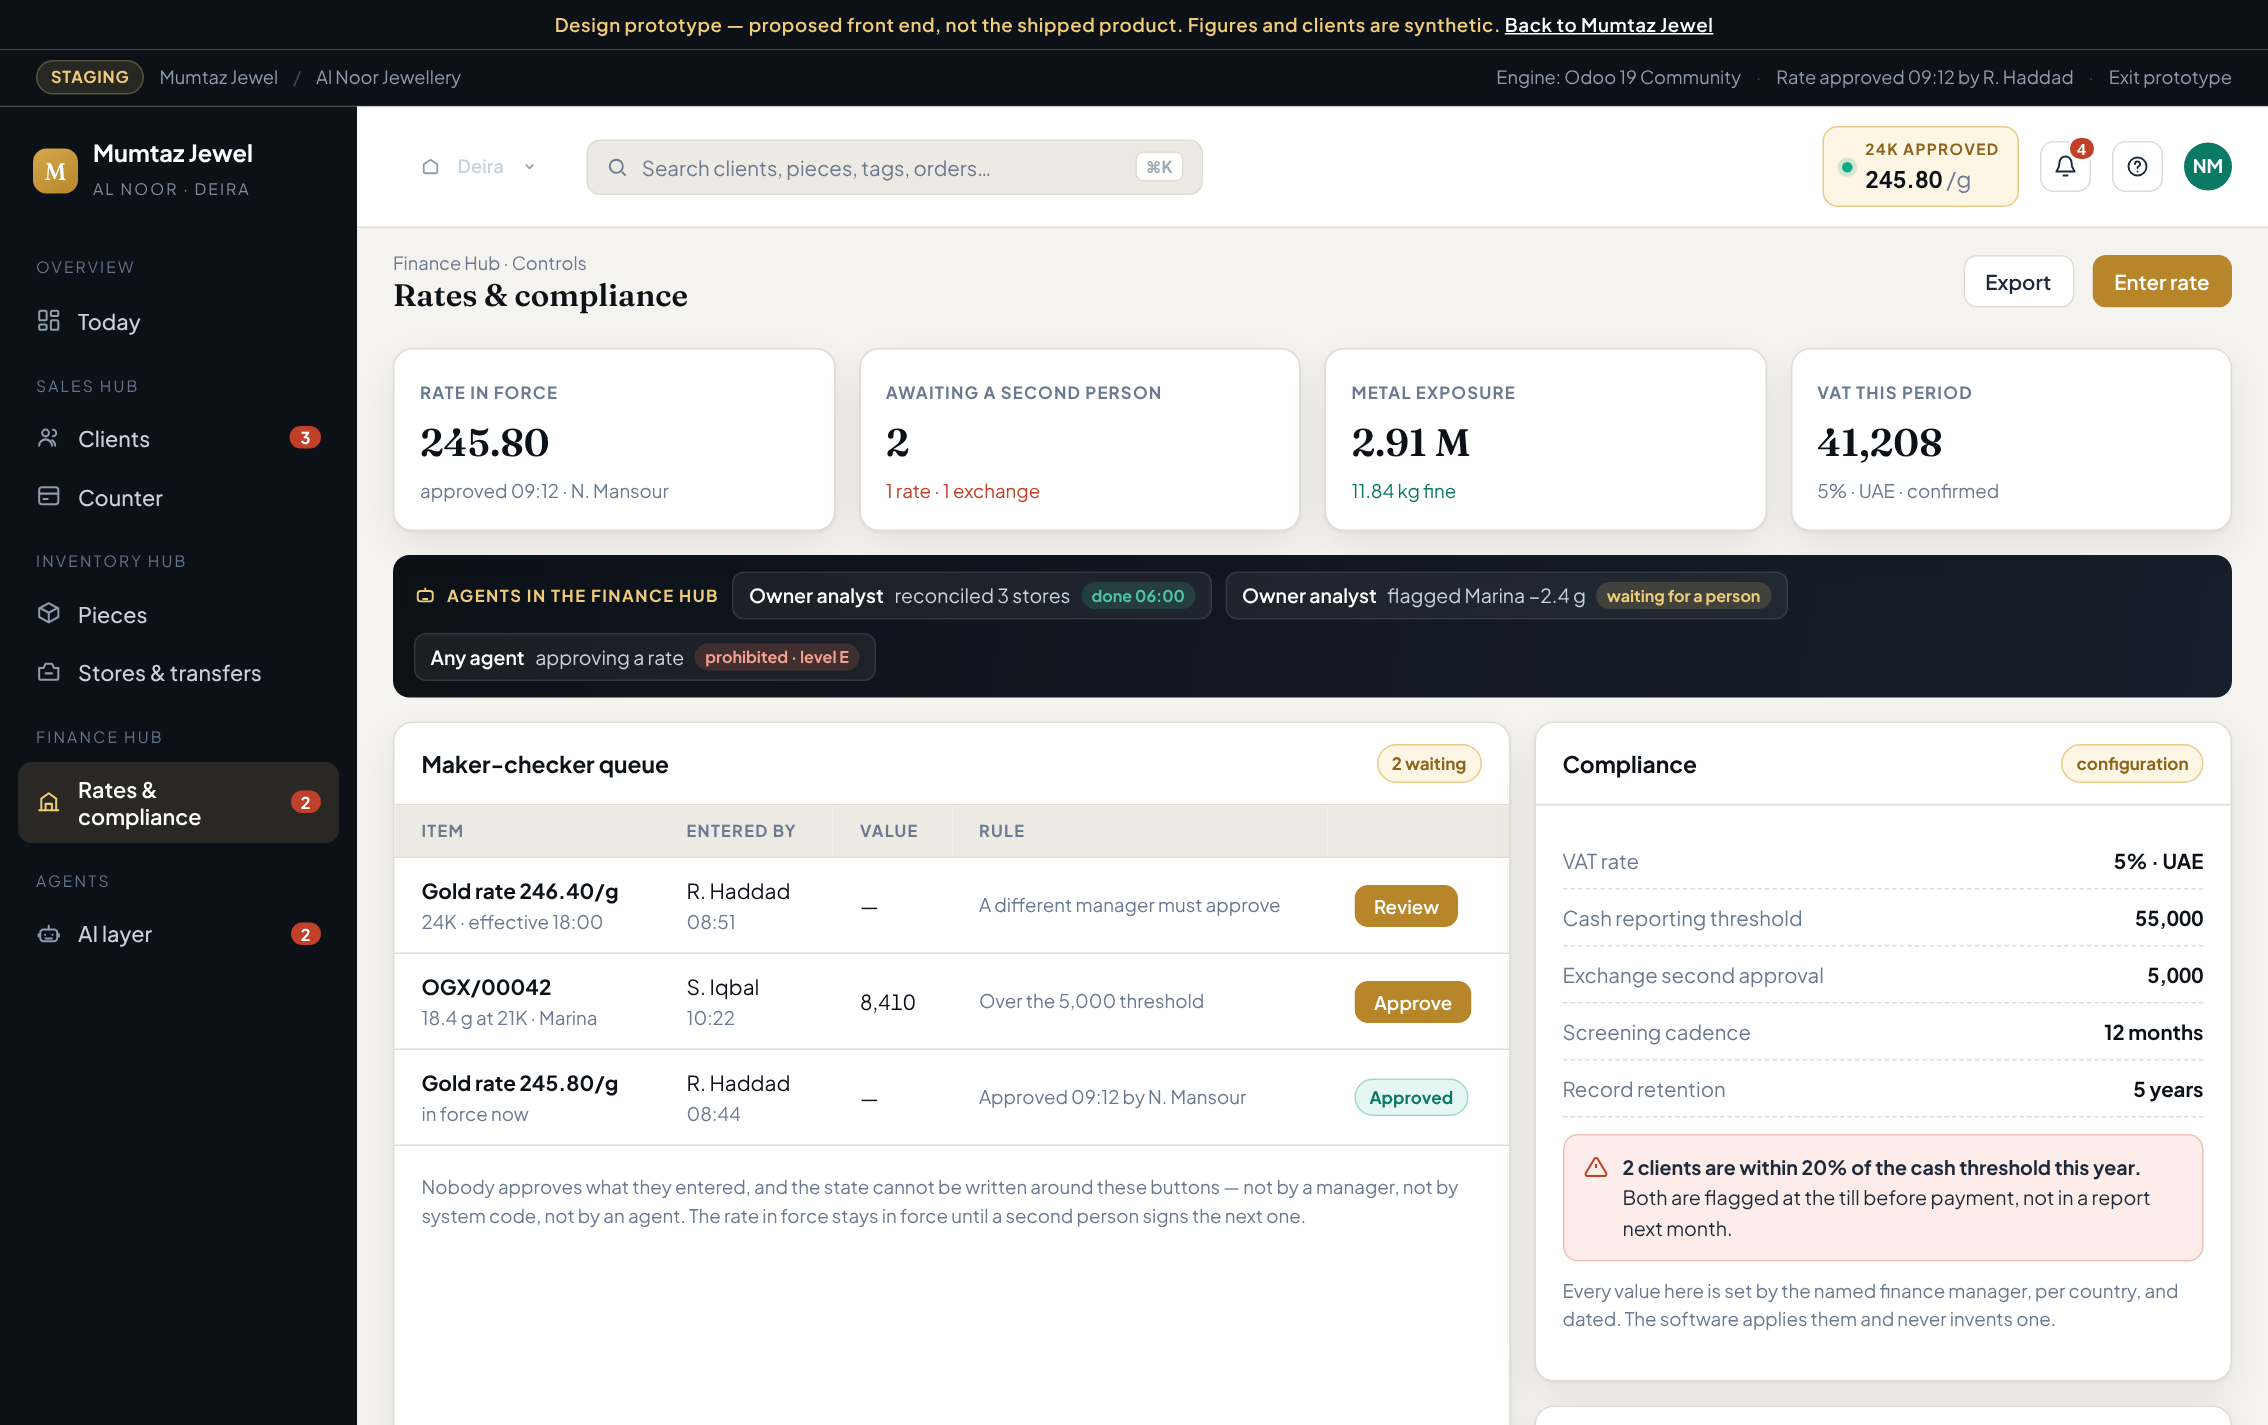
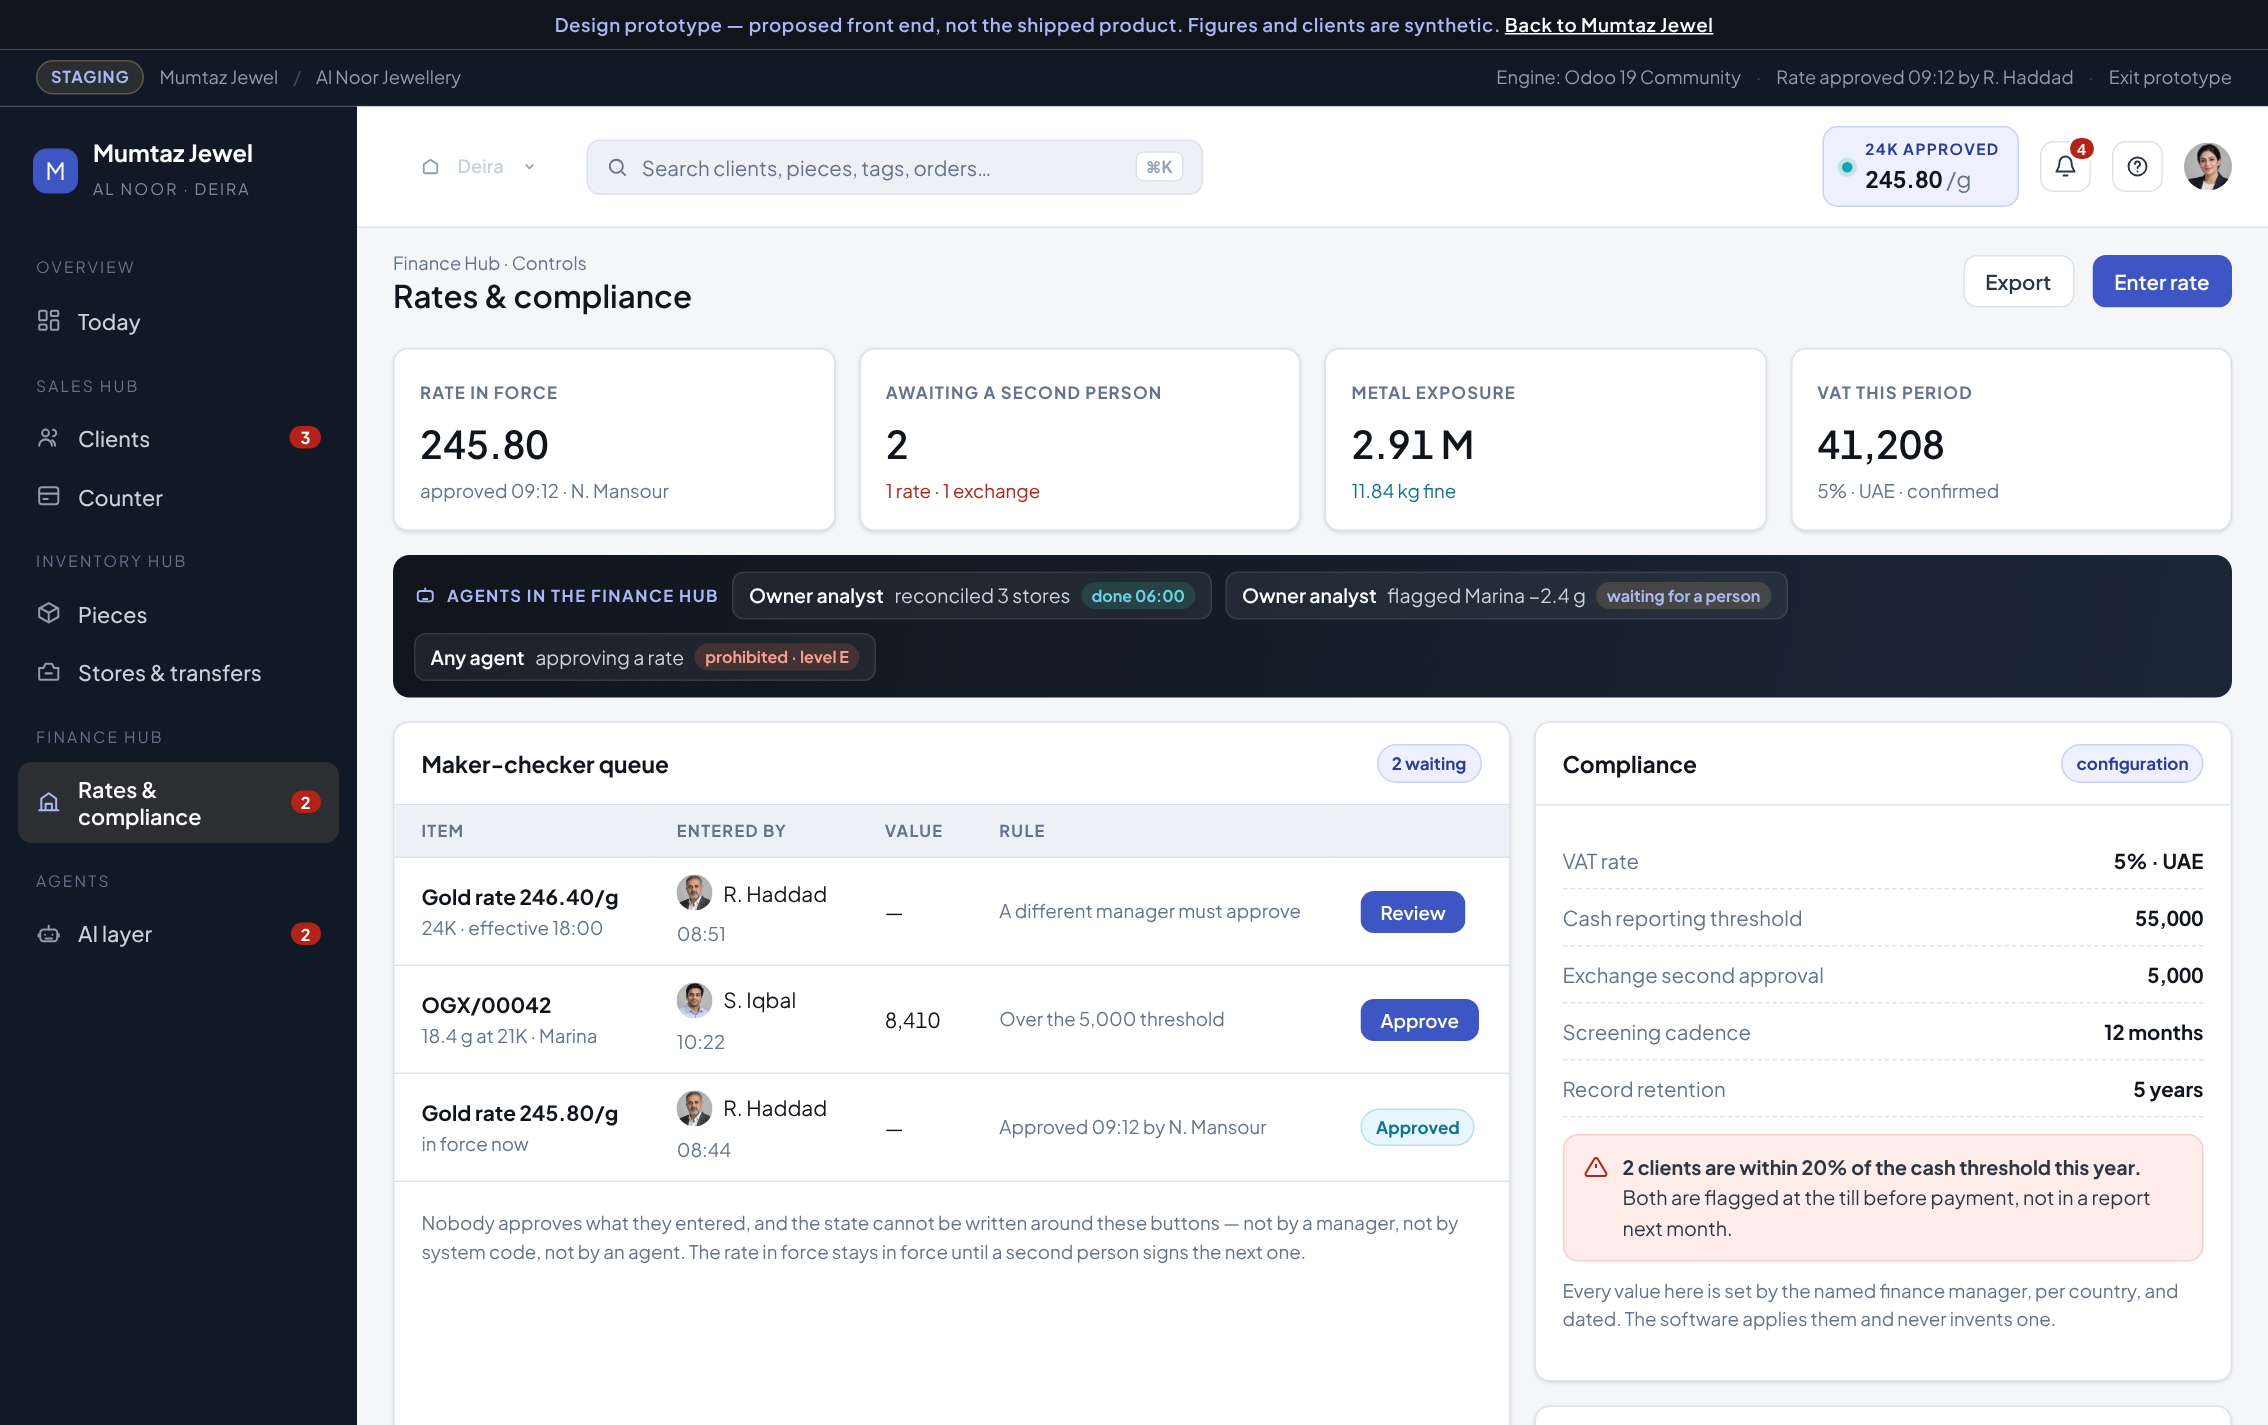
Retone the interface to an enterprise palette and give the people faces
Three changes, all to the prototype.

The gold is gone. The token block is rebuilt around slate surfaces and an
indigo primary, with a slate-teal for verified and positive states and a
single red for exceptions — the register SAP and Monday.com work in, where
colour carries status rather than luxury. The metallic gradients on the logo
mark, the avatars, the piece thumbnails and the chart bars are flat fills
now, the doughnut is indigo through teal, and Fraunces is dropped entirely so
the whole interface sets in Plus Jakarta Sans. Headings are heavier and
tighter instead of serif, corners are 10px rather than 14, and the shadow is
a hairline. Nothing about the layout changed; it just stopped looking like a
boutique and started looking like software.

The people have faces. Four corporate headshots generated through ElevenLabs
as a single consistent 2x2 sheet, then cropped to square avatars: the
relationship manager in the top bar and on the visit she took, the client on
her own record and on the counter strip, and the two managers beside their
names in the maker-checker queue, so a reader can see at a glance that the
person who entered a rate is not the person who approved it. They are
invented people for synthetic demo data, and the prototype says so in the
ribbon on every screen.

Fetching the generated images needed elevenlabsusercontent.com, which the
Default environment blocks. Rather than widen the environment every project
[…]

diff --git a/website/jewel/preview/index.html b/website/jewel/preview/index.html
@@ -17,19 +17,26 @@
 -->
 <link rel="preconnect" href="https://fonts.googleapis.com">
 <link rel="preconnect" href="https://fonts.gstatic.com" crossorigin>
-<link href="https://fonts.googleapis.com/css2?family=Fraunces:opsz,wght@9..144,500;9..144,600&family=Plus+Jakarta+Sans:wght@400;500;600;700;800&display=swap" rel="stylesheet">
+<link href="https://fonts.googleapis.com/css2?family=Plus+Jakarta+Sans:wght@400;500;600;700;800&display=swap" rel="stylesheet">
 <style>
 :root{
-  --paper:#F5F3EF; --paper2:#EDEAE3; --paper3:#E0DDD6; --surface:#FFFFFF;
-  --ink:#0C1118; --ink2:#1E2A3A; --ink3:#6B7A90; --ink4:#9BAAB8;
-  --gold:#B8862A; --gold2:#D4A84C; --gold3:#F0CC78; --gold-bg:#FDF6E4;
-  --gold-border:#E8CC88; --gold-dark:#8E641A;
-  --teal:#0B7A64; --teal2:#0EA882; --teal3:#4DC4A8; --teal-bg:#E6F7F3; --teal-border:#9FD9CC;
-  --coral:#C0402A; --coral2:#D9634A; --coral-bg:#FCECEA; --coral-border:#F0C0B8;
-  --rail:#0C1118; --rail2:#161F2B;
-  --display:'Fraunces',Georgia,serif;
+  /* surfaces */
+  --paper:#F4F6F8; --paper2:#EDF0F4; --paper3:#DDE3EA; --surface:#FFFFFF;
+  /* ink */
+  --ink:#10151C; --ink2:#2B3744; --ink3:#64748B; --ink4:#94A3B8;
+  /* primary: indigo */
+  --gold:#3D56C4; --gold2:#5570DF; --gold3:#A9B8F5; --gold-bg:#EEF1FD;
+  --gold-border:#C8D2F7; --gold-dark:#2B3E96;
+  /* secondary: slate-teal for positive/verified */
+  --teal:#0E7490; --teal2:#0EA5BE; --teal3:#67D3E8; --teal-bg:#E7F6FA;
+  --teal-border:#B3E2EE;
+  /* semantic */
+  --coral:#B42318; --coral2:#D64A3C; --coral-bg:#FDECEA; --coral-border:#F6CFC9;
+  /* chrome */
+  --rail:#111826; --rail2:#1B2638;
+  --display:'Plus Jakarta Sans',system-ui,-apple-system,Segoe UI,sans-serif;
   --body:'Plus Jakarta Sans',system-ui,-apple-system,Segoe UI,sans-serif;
-  --r:13px; --shadow:0 1px 2px rgba(12,17,24,.05),0 10px 28px rgba(12,17,24,.07);
+  --r:10px; --shadow:0 1px 2px rgba(16,21,28,.05),0 1px 3px rgba(16,21,28,.06);
 }
 *{box-sizing:border-box}
 body{margin:0;background:var(--paper);color:var(--ink);font-family:var(--body);font-size:15px;line-height:1.55;-webkit-font-smoothing:antialiased}
@@ -45,7 +52,7 @@ button{font-family:inherit;cursor:pointer}
 .shell{display:grid;grid-template-columns:238px 1fr;min-height:calc(100vh - 34px)}
 .rail{background:var(--rail);color:#C9D2DC;padding:16px 12px;display:flex;flex-direction:column;gap:3px}
 .brandrow{display:flex;align-items:center;gap:10px;padding:6px 10px 18px}
-.mk{width:30px;height:30px;border-radius:9px;display:grid;place-items:center;background:linear-gradient(145deg,var(--gold2),var(--gold));color:#fff;font-family:var(--display);font-size:1rem}
+.mk{width:30px;height:30px;border-radius:9px;display:grid;place-items:center;background:var(--gold);color:#fff;font-family:var(--display);font-size:1rem}
 .brandrow b{color:#fff;font-size:.98rem;display:block;line-height:1.2}
 .brandrow small{font-size:.66rem;letter-spacing:.13em;text-transform:uppercase;color:#7D8B9C}
 .railsec{font-size:.65rem;letter-spacing:.14em;text-transform:uppercase;color:#64748B;padding:14px 12px 6px}
@@ -107,7 +114,7 @@ td{padding:11px 18px;border-top:1px solid var(--paper3)}
 
 /* client 360 */
 .hero360{display:grid;grid-template-columns:auto 1fr auto;gap:18px;align-items:center;padding:18px}
-.ava{width:68px;height:68px;border-radius:17px;background:linear-gradient(150deg,var(--gold3),var(--gold));color:#fff;display:grid;place-items:center;font-family:var(--display);font-size:1.6rem;font-weight:600}
+.ava{width:68px;height:68px;border-radius:17px;background:var(--gold);color:#fff;display:grid;place-items:center;font-family:var(--display);font-size:1.6rem;font-weight:600}
 .hero360 h2{font-family:var(--display);font-size:1.5rem;font-weight:600}
 .meta{display:flex;gap:7px;flex-wrap:wrap;margin-top:7px}
 .facts{display:flex;gap:26px;flex-wrap:wrap}
@@ -120,8 +127,7 @@ td{padding:11px 18px;border-top:1px solid var(--paper3)}
 .bar i{display:block;height:100%;border-radius:99px;background:var(--teal2)}
 .gal{display:grid;grid-template-columns:repeat(4,1fr);gap:9px}
 .pc{border:1px solid var(--paper3);border-radius:11px;overflow:hidden;background:var(--paper2)}
-.pc .im{height:74px;display:grid;place-items:center;background:
-   radial-gradient(circle at 50% 42%, var(--gold3), var(--gold) 62%, var(--gold-dark));}
+.pc .im{height:74px;display:grid;place-items:center;background:linear-gradient(160deg,#CBD5E1,#94A3B8);}
 .pc .im svg{width:30px;height:30px;stroke:rgba(255,255,255,.92);fill:none;stroke-width:1.5}
 .pc .lb{padding:7px 9px;background:var(--surface)}
 .pc .lb b{display:block;font-size:.76rem}
@@ -146,6 +152,15 @@ td{padding:11px 18px;border-top:1px solid var(--paper3)}
 .tot b{font-family:var(--display);font-size:1.5rem;font-weight:600}
 .pay{display:grid;grid-template-columns:1fr 1fr;gap:9px;margin-top:12px}
 .paybtn{border:1px solid var(--paper3);background:var(--surface);border-radius:10px;padding:11px;text-align:center;font-size:.84rem;font-weight:600}
+
+/* people */
+.ph{border-radius:50%;object-fit:cover;display:block;background:var(--paper2)}
+.ph-xs{width:24px;height:24px}
+.ph-sm{width:32px;height:32px}
+.ph-lg{width:68px;height:68px;border-radius:16px}
+.ph-xl{width:52px;height:52px;border-radius:14px}
+.byline{display:inline-flex;align-items:center;gap:7px}
+.byline span{font-size:.78rem;color:var(--ink3)}
 
 /* agents at work */
 .awork{display:flex;gap:9px;align-items:center;flex-wrap:wrap;padding:11px 14px;background:linear-gradient(100deg,var(--ink) 0%,var(--rail2) 100%);border-radius:11px;color:#C9D2DC;font-size:.81rem}
@@ -196,11 +211,11 @@ td{padding:11px 18px;border-top:1px solid var(--paper3)}
 .statusbar{display:flex;align-items:center;gap:16px;padding:8px 24px;background:var(--surface);border-top:1px solid var(--paper3);font-size:.73rem;color:var(--ink3)}
 .statusbar .dotg{width:7px;height:7px;border-radius:50%;background:var(--teal2);display:inline-block;margin-right:6px}
 .chart{display:flex;align-items:flex-end;gap:6px;height:118px;padding-top:8px}
-.chart i{flex:1;background:linear-gradient(180deg,var(--gold2),var(--gold));border-radius:3px 3px 0 0;display:block;position:relative}
-.chart i.alt{background:linear-gradient(180deg,var(--teal3),var(--teal))}
+.chart i{flex:1;background:var(--gold2);border-radius:3px 3px 0 0;display:block;position:relative}
+.chart i.alt{background:var(--teal2)}
 .chartx{display:flex;gap:6px;margin-top:6px}
 .chartx span{flex:1;text-align:center;font-size:.66rem;color:var(--ink4)}
-.don{width:112px;height:112px;border-radius:50%;background:conic-gradient(var(--gold) 0 54%,var(--gold3) 54% 78%,var(--teal3) 78% 92%,var(--paper3) 92% 100%);display:grid;place-items:center;margin:0 auto}
+.don{width:112px;height:112px;border-radius:50%;background:conic-gradient(var(--gold) 0 54%,var(--gold2) 54% 78%,var(--teal2) 78% 92%,var(--paper3) 92% 100%);display:grid;place-items:center;margin:0 auto}
 .don .hole{width:74px;height:74px;border-radius:50%;background:var(--surface);display:grid;place-items:center;text-align:center;line-height:1.15}
 .don .hole b{font-family:var(--display);font-size:1.15rem;font-weight:600}
 .don .hole small{font-size:.63rem;color:var(--ink3)}
@@ -359,7 +374,7 @@ td{padding:11px 18px;border-top:1px solid var(--paper3)}
         <span class="bdg">4</span>
       </button>
       <button class="iconbtn" title="Help"><svg viewBox="0 0 24 24"><circle cx="12" cy="12" r="9"/><path d="M9.5 9.5a2.5 2.5 0 113.5 2.3c-.6.3-1 .9-1 1.7M12 17h.01"/></svg></button>
-      <span class="who" title="Nadia M. · Relationship manager">NM</span>
+      <img class="ph ph-sm" src="../site/img/people/nadia.png" alt="Nadia M., relationship manager" title="Nadia M. · Relationship manager">
     </div>
 
     <div class="pagebar">
@@ -403,8 +418,8 @@ td{padding:11px 18px;border-top:1px solid var(--paper3)}
               <div class="don"><div class="hole"><b class="num">11.84</b><small>kg fine</small></div></div>
               <div class="leg">
                 <div><i style="background:var(--gold)"></i> Deira · 4.14 kg</div>
-                <div><i style="background:var(--gold3)"></i> Marina · 3.93 kg</div>
-                <div><i style="background:var(--teal3)"></i> Sharjah · 3.64 kg</div>
+                <div><i style="background:var(--gold2)"></i> Marina · 3.93 kg</div>
+                <div><i style="background:var(--teal2)"></i> Sharjah · 3.64 kg</div>
                 <div><i style="background:var(--paper3)"></i> In transit · 0.13 kg</div>
               </div>
             </div>
@@ -465,7 +480,7 @@ td{padding:11px 18px;border-top:1px solid var(--paper3)}
       <section class="screen" id="s-clients">
         <div class="card" style="margin-bottom:16px">
           <div class="hero360">
-            <div class="ava">AK</div>
+            <img class="ph ph-lg" src="../site/img/people/aisha.png" alt="Portrait of the client A. K.">
             <div>
               <h2>A. K.</h2>
               <div class="meta">
@@ -513,7 +528,7 @@ td{padding:11px 18px;border-top:1px solid var(--paper3)}
               <div class="hd"><h3>Touchpoints</h3><span class="sp"></span><span class="chip c-grey">every channel, one thread</span></div>
               <div class="pad">
                 <div class="tp"><span class="tpi tp-store"><svg viewBox="0 0 24 24"><path d="M3 9l9-6 9 6v10a2 2 0 01-2 2H5a2 2 0 01-2-2z"/></svg></span>
-                  <div><b>Private viewing &middot; Deira</b><span>2 Nov &middot; Nadia M. &middot; 45 min &middot; 4 pieces shown</span></div></div>
+                  <div><b>Private viewing &middot; Deira</b><span class="byline"><img class="ph ph-xs" src="../site/img/people/nadia.png" alt="">2 Nov &middot; Nadia M. &middot; 45 min &middot; 4 pieces shown</span></div></div>
                 <div class="tp"><span class="tpi tp-link"><svg viewBox="0 0 24 24"><path d="M10 13a5 5 0 007 0l2-2a5 5 0 00-7-7l-1 1"/><path d="M14 11a5 5 0 00-7 0l-2 2a5 5 0 007 7l1-1"/></svg></span>
                   <div><b>Tray link opened &middot; twice</b><span>1 Nov &middot; expires in 5 days &middot; revocable &middot; liked 2, asked about 1</span></div></div>
                 <div class="tp"><span class="tpi tp-wa"><svg viewBox="0 0 24 24"><path d="M21 11.5a8.5 8.5 0 01-12.6 7.4L3 21l2.2-5.2A8.5 8.5 0 1121 11.5z"/></svg></span>
@@ -583,7 +598,7 @@ td{padding:11px 18px;border-top:1px solid var(--paper3)}
       <section class="screen" id="s-pos">
 
         <div class="cstrip">
-          <div class="ava">AK</div>
+          <img class="ph ph-xl" src="../site/img/people/aisha.png" alt="Portrait of the client A. K.">
           <div>
             <h3>A. K. <span class="tiny" style="font-weight:400;color:#8E9CAC">· at the counter with Nadia M.</span></h3>
             <div class="meta">
@@ -770,15 +785,15 @@ td{padding:11px 18px;border-top:1px solid var(--paper3)}
               <thead><tr><th>Item</th><th>Entered by</th><th>Value</th><th>Rule</th><th></th></tr></thead>
               <tbody>
                 <tr><td><b>Gold rate 246.40/g</b><div class="tiny muted">24K &middot; effective 18:00</div></td>
-                    <td>R. Haddad<div class="tiny muted">08:51</div></td><td class="num">&mdash;</td>
+                    <td><span class="byline"><img class="ph ph-xs" src="../site/img/people/rashid.png" alt="">R. Haddad</span><div class="tiny muted">08:51</div></td><td class="num">&mdash;</td>
                     <td class="tiny muted">A different manager must approve</td>
                     <td><button class="btn b-gold" style="padding:5px 12px;font-size:.78rem">Review</button></td></tr>
                 <tr><td><b>OGX/00042</b><div class="tiny muted">18.4 g at 21K &middot; Marina</div></td>
-                    <td>S. Iqbal<div class="tiny muted">10:22</div></td><td class="num">8,410</td>
+                    <td><span class="byline"><img class="ph ph-xs" src="../site/img/people/sameer.png" alt="">S. Iqbal</span><div class="tiny muted">10:22</div></td><td class="num">8,410</td>
                     <td class="tiny muted">Over the 5,000 threshold</td>
                     <td><button class="btn b-gold" style="padding:5px 12px;font-size:.78rem">Approve</button></td></tr>
                 <tr><td><b>Gold rate 245.80/g</b><div class="tiny muted">in force now</div></td>
-                    <td>R. Haddad<div class="tiny muted">08:44</div></td><td class="num">&mdash;</td>
+                    <td><span class="byline"><img class="ph ph-xs" src="../site/img/people/rashid.png" alt="">R. Haddad</span><div class="tiny muted">08:44</div></td><td class="num">&mdash;</td>
                     <td class="tiny muted">Approved 09:12 by N. Mansour</td>
                     <td><span class="chip c-teal">Approved</span></td></tr>
               </tbody>
